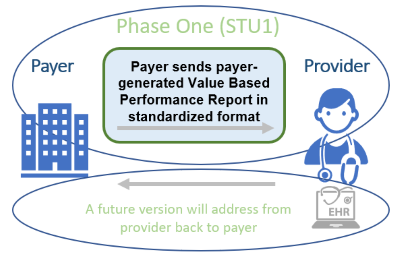
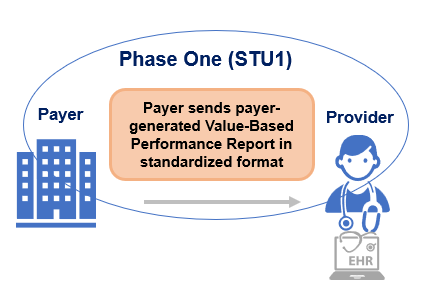
Applied: FHIR-42381, FHIR-42382, FHIR-42383, FHIR-42396, FHIR-42393

diff --git a/input/pagecontent/glossary.md b/input/pagecontent/glossary.md
@@ -1,9 +1,9 @@
 
 |Term|Definition|
 |---|---|
-|Administrative Cost|A general term that refers to Medicare and Medicaid administrative costs, as well as CMS administrative costs. Medicare administrative costs are comprised of the Medicare related outlays and non-CMS administrative outlays. Medicaid administrative costs refer to the Federal share of the States' expenditures for administration of the Medicaid program. CMS administrative costs are the costs of operating CMS (e.g., salaries and expenses, facilities, equipment, rent and utilities, etc.). These costs are reflected in the Program Management account.[source](https://www.cms.gov/glossary?term=administrative+cost&items_per_page=10&viewmode=grid)|
+|Administrative Cost|Administrative costs are the expenses associated with operating a health plan and exclude the cost of claims. They are largely driven by staffing, technology, and operational processes.|
 |Adjustments|An adjustment is a request to reprocess the claim after taking into consideration some new or changed information. The information provided on the original claim is either corrected or supplemented.|
-|Alternative Payment Models (APMs)|Alternative payment models deviate from traditional fee-for-service (FFS) payment, insofar as they adjust FFS payments to account for performance on cost and quality metrics, or insofar as they use population-based payments that are linked to quality performance.[source](http://hcp-lan.org/workproducts/ds-whitepaper-final.pdf)|
+|Alternative Payment Models (APMs)|Alternative payment models deviate from traditional fee-for-service (FFS) payment, insofar as they adjust FFS payments to account for performance on cost and quality metrics, or insofar as they use population-based payments that are linked to quality performance. [source](http://hcp-lan.org/workproducts/ds-whitepaper-final.pdf)|
 |Average Risk Score|Average risk score for the population, which is a numeric score where a higher score indicates a riskier population on average. Note that within that population, each patient also has risk score, which helps to know which patient is riskier.|
 |Bonus Amount|VBP models may reward quality and cost savings separately, or they may link them. When treated separately, there is a discrete quality bonus, irrespective of the provider’s performance relative to their financial benchmark.|
 |Brand|Brand (for example Blue vs. non-blue)|
@@ -11,7 +11,7 @@
 |Care Coordination Fee (CCF)|Care coordination fees are the Per Member Per Month (PMPM) payments based on the number of patients that are assigned to primary care physicians|
 |Incurred but not reported (IBNR)|A type of reserve account used in the insurance industry as the provision for claims and/or events that have transpired, but have not yet been reported to an insurance company|
 |Fee-for-Service (FFS)|Traditional health care payment models, in which providers are paid separately for each service they deliver.|
-|Financial Benchmark|A financial benchmark is a population-based spending level that is used to establish opulation-based payment (PBP) rates for providers.|
+|Financial Benchmark|A set, risk-adjusted dollar amount typically determined by historical fee-for-service spend, market-based trends, or other methods that is used to measure financial performance in VBP Models. Programs using a financial benchmark most closely align with the HCP-LAN Categories 3 and 4. (source: [CAQH CORE Framework for Semantic Interoperability in Value-based Payments](https://www.caqh.org/hubfs/CORE/CORE_Framework_for_Semantic_Interoperability_in_Value_Based_Payments_vSI.1.0.pdf))|
 |Gating|Meet a performance threshold for other terms to apply. Establish a performance target or “gate” that must be cleared before an accountable provider organization can receive rewards.|
 |Inpatient Claims|Bills submitted for program level (facility-based) services |
 |Line of Business (LOB)|Commercial, Medicaid, Medicare, etc.|

diff --git a/input/pagecontent/index.md b/input/pagecontent/index.md
@@ -60,7 +60,9 @@ HCP-LAN (Health Care Payment Learning and Action Network)<sup>[1](https://hcp-la
 
 - **Category 3**: APMs built on fee-for-service architecture: This level includes payment models that focus on upside risk only or episode-based payment for procedures and comprehensive payments with upside and downside risk. This category also included risk-based payments NOT linked to quality.  
 
-- **Category 4**: Population-based Payment: This level includes payment models where providers receive a fixed payment for a specific population, such as a patient panel, and are responsible for delivering all necessary care within that population. This category also includes global budgets or full/percent of premium payment and integrated finance and delivery system. This category also includes capitated payments not linked to quality. 
+- **Category 4**: Population-based Payment: Category 4 payment models involve prospective, population-based payments, structured in a manner that encourages providers to deliver well-coordinated, high-quality, person-centered care within either a defined scope of practice (4A), a comprehensive collection of care (4B), or a highly integrated finance and delivery system (4C). Category 4 APMs require accountability for measures of appropriate care to provide additional safeguards against incentives to limit necessary care. Absent this accountability, APMs that use prospective, population-based payments will be classified in Category 4N.
+
+This level includes payment models where providers receive a fixed payment for a specific population, such as a patient panel, and are responsible for delivering all necessary care within that population. This category also includes global budgets or full/percent of premium payment and integrated finance and delivery system. This category also includes capitated payments not linked to quality. 
 
 While a framework is in place to identify the types of value-based agreements payers and providers can participate in, there is a challenge in collecting, analyzing and reconciling the numerous reports providers receive from payers. Some of these challenges include:
 - Lack of standardizations for value-based performance reporting format 
@@ -70,6 +72,7 @@ While a framework is in place to identify the types of value-based agreements pa
 - Data is error-prone based on human error when entering into reporting systems
 - Misalignment on time periods when data is shared, and care is delivered. 
 - Various reporting, payment, and reconciliation periods can make tracking performance across contractual measures difficult for providers to understand how well they are performing prior to various settlement dates.
+- Variation in metrics used across payers and also variation in methodology – e.g., attribution.
 
 
 ### Scope
@@ -85,13 +88,6 @@ The initial phase of this implementation guide focuses on:
 
 {% include img-portrait.html img="scope.png" caption="Figure 1-2 Scope"%}
 
-Future versions of this implementation guide may include functionalities to support topics such as:
-- Final contract settlement calculations (including inclusions and exclusions)
-- Invalidations (risk adjustment/payment retroactivity)
-- Interim settlements
-- External (out of network) reconciliations
-- Other Alternative Payment Models (APM)  
-- Clinical Quality Language (CQL) for metrics definitions and calculations
 
 ---
 

diff --git a/input/pagecontent/change-log.md b/input/pagecontent/change-log.md
@@ -46,6 +46,11 @@ The Value-Based Performance Reporting Implementation Guide was developed under t
 - **Applied**: Main page discusses APMs but does not spell out the acronym ([FHIR-41894](https://jira.hl7.org/browse/FHIR-41894))
 - **Applied**: Need a way to identify if a measure is tied to payment, reporting only, or an alternate measure. ([FHIR-42876](https://jira.hl7.org/browse/FHIR-42876))
 - **Applied**: Definition of "Revenue" ([FHIR-42398](https://jira.hl7.org/browse/FHIR-42398))
+- **Applied**: Category 4 ballet point definition ([FHIR-42381](https://jira.hl7.org/browse/FHIR-42381))
+- **Applied**: Add to challenges list ([FHIR-42382](https://jira.hl7.org/browse/FHIR-42382))
+- **Applied**: Please clarify: "a future version will address from provider back to payer" ([FHIR-42383](https://jira.hl7.org/browse/FHIR-42383))
+- **Applied**: Regarding "Administrative Cost" definition ([FHIR-42393](https://jira.hl7.org/browse/FHIR-42393))
+- **Applied**: Define "PBP" in "Financial Benchmark" definition ([FHIR-42396](https://jira.hl7.org/browse/FHIR-42396))
 
 
 ### Version 1.0.0-ballot
